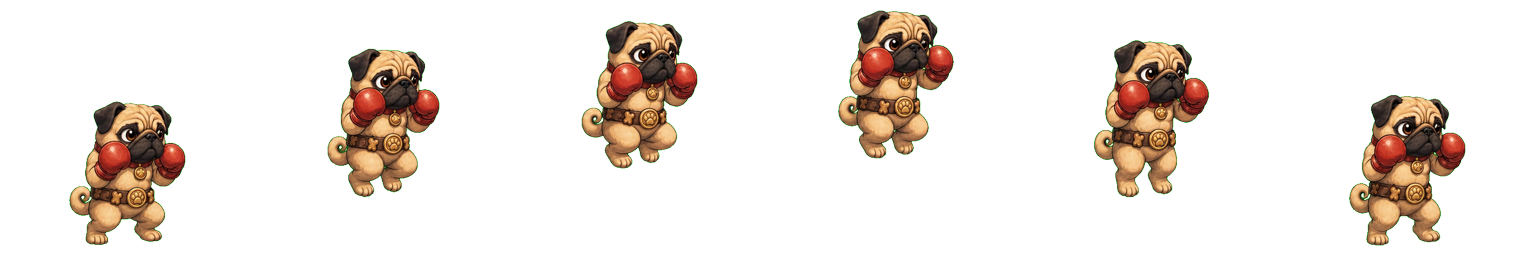
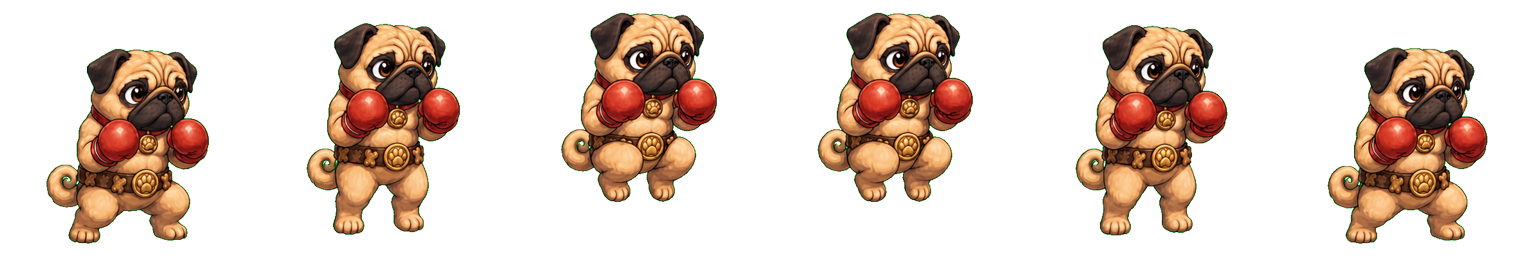
Fix Pickles jump size drift

diff --git a/test/fighter-animation-preflight.test.ts b/test/fighter-animation-preflight.test.ts
@@ -1,3 +1,4 @@
+import { execFileSync } from "node:child_process";
 import { existsSync, readFileSync } from "node:fs";
 import { join } from "node:path";
 import { describe, expect, it } from "vitest";
@@ -105,4 +106,70 @@ describe("Pickles Pugilist animation preflight", () => {
     expect(outputHtml).toContain("not playable");
     expect(outputHtml).not.toContain("/assets/generated/fighters/pugilist-pug");
   });
+
+  it("keeps generated Pickles jump frames at the same character scale as idle", () => {
+    const idleBounds = alphaBoundsByFrame("assets/source/imagegen/fighters/pugilist-pug/idle.png", 8);
+    const jumpBounds = alphaBoundsByFrame("assets/source/imagegen/fighters/pugilist-pug/jump.png", 6);
+    const idleWidth = Math.round(average(idleBounds.map((bounds) => bounds.width)));
+    const idleHeight = Math.round(average(idleBounds.map((bounds) => bounds.height)));
+    const jumpWidths = jumpBounds.map((bounds) => bounds.width);
+    const jumpHeights = jumpBounds.map((bounds) => bounds.height);
+
+    expect(Math.min(...jumpWidths)).toBeGreaterThanOrEqual(Math.round(idleWidth * 0.9));
+    expect(Math.min(...jumpHeights)).toBeGreaterThanOrEqual(Math.round(idleHeight * 0.8));
+    expect(Math.max(...jumpHeights)).toBeGreaterThanOrEqual(Math.round(idleHeight * 0.92));
+  });
 });
+
+function alphaBoundsByFrame(relativePath: string, frameCount: number) {
+  const path = join(process.cwd(), relativePath);
+  const dimensions = readPngDimensions(path);
+  const pixels = execFileSync("ffmpeg", ["-v", "error", "-i", path, "-f", "rawvideo", "-pix_fmt", "rgba", "-"], {
+    maxBuffer: dimensions.width * dimensions.height * 4 + 1024,
+  });
+  const frameWidth = dimensions.width / frameCount;
+
+  return Array.from({ length: frameCount }, (_, frameIndex) => {
+    const minCellX = Math.floor(frameIndex * frameWidth);
+    const maxCellX = Math.floor((frameIndex + 1) * frameWidth) - 1;
+    let minX = frameWidth - 1;
+    let maxX = 0;
+    let minY = dimensions.height - 1;
+    let maxY = 0;
+    let found = false;
+
+    for (let y = 0; y < dimensions.height; y += 1) {
+      for (let x = minCellX; x <= maxCellX; x += 1) {
+        const pixelIndex = (y * dimensions.width + x) * 4;
+        if (pixels[pixelIndex + 3] <= 16) continue;
+
+        const localX = x - minCellX;
+        minX = Math.min(minX, localX);
+        maxX = Math.max(maxX, localX);
+        minY = Math.min(minY, y);
+        maxY = Math.max(maxY, y);
+        found = true;
+      }
+    }
+
+    if (!found) throw new Error(`${relativePath} frame ${frameIndex + 1} has no opaque pixels`);
+
+    return {
+      width: maxX - minX + 1,
+      height: maxY - minY + 1,
+    };
+  });
+}
+
+function readPngDimensions(path: string) {
+  const output = execFileSync("sips", ["-g", "pixelWidth", "-g", "pixelHeight", path], { encoding: "utf8" });
+
+  return {
+    width: Number(output.match(/pixelWidth: (\d+)/)?.[1]),
+    height: Number(output.match(/pixelHeight: (\d+)/)?.[1]),
+  };
+}
+
+function average(values: readonly number[]) {
+  return values.reduce((total, value) => total + value, 0) / values.length;
+}

diff --git a/output/animation-preflight/pickles-pugilist-jump-size-lock-qa.html b/output/animation-preflight/pickles-pugilist-jump-size-lock-qa.html
@@ -1,0 +1,24 @@
+<!doctype html>
+<html lang="en">
+  <head>
+    <meta charset="utf-8" />
+    <title>Pickles Pugilist Jump Size Lock QA</title>
+    <style>
+      body { font-family: system-ui, sans-serif; margin: 24px; background: #111; color: #f5f5f5; }
+      img { display: block; max-width: 100%; margin: 12px 0 24px; background: #0f0; image-rendering: auto; }
+      code { color: #ffe08a; }
+      .pass { color: #7dff9f; }
+    </style>
+  </head>
+  <body>
+    <h1>Pickles Pugilist Jump Size Lock QA</h1>
+    <p class="pass">PASS: source-only replacement <code>jump</code> row accepted for T035.</p>
+    <h2>Replacement Jump</h2>
+    <p>Exact <code>1536x256</code> alpha spritesheet. Pickles stays near idle scale; motion is pose-local and does not shrink him into a smaller character.</p>
+    <img src="../imagegen/pugilist-pug-jump-normalized.png" alt="Pickles Pugilist size-locked jump normalized source row" />
+    <h2>Size Audit</h2>
+    <p>Idle height: <code>228px</code>. Previous jump height: <code>144-158px</code>. Replacement jump height: <code>190-212px</code> with tucked-knee poses and stable head/glove scale.</p>
+    <h2>Runtime Gate</h2>
+    <p>No <code>public/assets/generated/fighters/pugilist-pug</code> folder is introduced; Pickles remains non-playable.</p>
+  </body>
+</html>

diff --git a/docs/goals/aaa-game-expansion/notes/T035-pickles-jump-size-lock.md b/docs/goals/aaa-game-expansion/notes/T035-pickles-jump-size-lock.md
@@ -1,0 +1,43 @@
+# T035 Pickles Jump Size Lock
+
+Result: done. Full AAA outcome remains incomplete.
+
+The owner clarified that character size should not change. This Worker replaced the previously accepted `pugilist-pug` / Pickles Pugilist `jump` source row because the old row shrank Pickles globally (`144-158px` body height versus idle at `228px`). The replacement used built-in Codex imagegen only, was normalized to an exact alpha spritesheet, and remains source-only.
+
+## Accepted Asset
+
+| Row | Candidate | Accepted source | Normalized proof | Dimensions |
+| --- | --- | --- | --- | --- |
+| `jump` | `assets/source/imagegen/fighters/pugilist-pug/candidates/jump-size-lock-codex-02.png` | `assets/source/imagegen/fighters/pugilist-pug/jump.png` | `output/imagegen/pugilist-pug-jump-normalized.png` | `1536x256`, alpha |
+
+Rejected candidate:
+
+- `assets/source/imagegen/fighters/pugilist-pug/candidates/jump-size-lock-codex-01.png`: improved over the old jump but still undersized after normalization.
+
+QA records:
+
+- `output/animation-preflight/pickles-pugilist-jump-size-lock-qa.json`
+- `output/animation-preflight/pickles-pugilist-jump-size-lock-qa.html`
+
+## Size-Lock QA
+
+- Idle row body bounds: `166-168px` wide, `228px` high.
+- Previous jump row body bounds: `113-117px` wide, `144-158px` high. Rejected as global shrink.
+- Replacement jump row body bounds: `153-163px` wide, `190-212px` high. Accepted because tucked-knee poses reduce silhouette height without shrinking head/glove/body scale.
+- A focused test now fails if the Pickles generated jump row repeats the undersized pattern.
+
+## Runtime Gate
+
+This task did not use external APIs, `.env`, audio tools, new dependencies, runtime roster/select/combat changes, public fighter assets, or playable promotion. Runtime manifests still expose only Gray Rabbit and Ginger Tabby Cat.
+
+## Verification
+
+- `node scripts/normalize-fighter-rows.mjs --animation jump --fighters pugilist-pug`
+- `sips -g pixelWidth -g pixelHeight -g hasAlpha assets/source/imagegen/fighters/pugilist-pug/jump.png output/imagegen/pugilist-pug-jump-normalized.png`
+- `npm test -- test/fighter-animation-preflight.test.ts test/asset-qa.test.ts`
+- `node scripts/asset-qa.mjs --json`
+- `test ! -e public/assets/generated/fighters/pugilist-pug`
+- `npm run typecheck`
+- `npm run build`
+- `npm run verify`
+- `PLAYWRIGHT_NODE_MODULES=/tmp/meowtal-playwright/node_modules npm run smoke:meowtal -- --url http://127.0.0.1:4173/ --out-dir output/web-game/pickles-jump-size-lock`